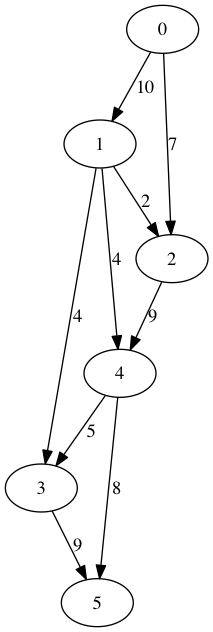
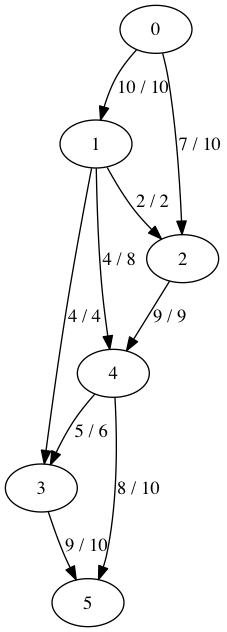
show capacities in block flow display

diff --git a/maxflow/graph.py b/maxflow/graph.py
@@ -30,10 +30,15 @@ def input_graph(input_file=sys.stdin):
     return graph, n, m
 
 
-def display_graph(graph, filename="graphviz_output", highlight_path=None):
+def display_graph(graph, filename="graphviz_output", highlight_path=None, capacities=None):
     """ simply displays a graph using graphviz.
     renders to filename.png
     """
+    def label(edge, weight, capacities):
+        if capacities is not None:
+            return str(weight) + ' / ' + str(capacities[edge])
+        else:
+            return str(weight)
     dot = graphviz.Digraph(comment="max flow graph", format='png')
     n = len(graph)
     for i in map(str, range(n)):
@@ -44,7 +49,7 @@ def display_graph(graph, filename="graphviz_output", highlight_path=None):
         for j, c in graph[i]:
             if highlight_path and (i, j) in path_edges:
                 print 'got path edge', (i, j)
-                dot.edge(str(i), str(j), label=str(c), color='red')
+                dot.edge(str(i), str(j), label=label((i, j), c, capacities), color='red')
             else:
-                dot.edge(str(i), str(j), label=str(c))
+                dot.edge(str(i), str(j), label=label((i, j), c, capacities))
     dot.render(filename)

diff --git a/maxflow/block_flow.py b/maxflow/block_flow.py
@@ -47,7 +47,10 @@ class BlockingFlowImageSequence(ImageSequence):
                 self.done = True
                 return None
             print 'path', self.states[self.idx][0]
-            display_graph(self.states[self.idx][1], filename="blocking_flow_next", highlight_path=self.states[self.idx][0])
+            display_graph(self.states[self.idx][1],
+                          filename="blocking_flow_next",
+                          highlight_path=self.states[self.idx][0],
+                          capacities=self.adj_matrix_capacitites)
             self.idx += 1
             return mpimg.imread('blocking_flow_next.png')
 
@@ -88,6 +91,7 @@ class BlockingFlowImageSequence(ImageSequence):
             for j in range(len(graph[i])):
                 temp1, temp2 = graph[i][j]
                 adj_matrix[i, temp1] = temp2
+        self.adj_matrix_capacitites = deepcopy(adj_matrix)
 
         # loop |E| times on modified DFS
         for i in range(edges):
